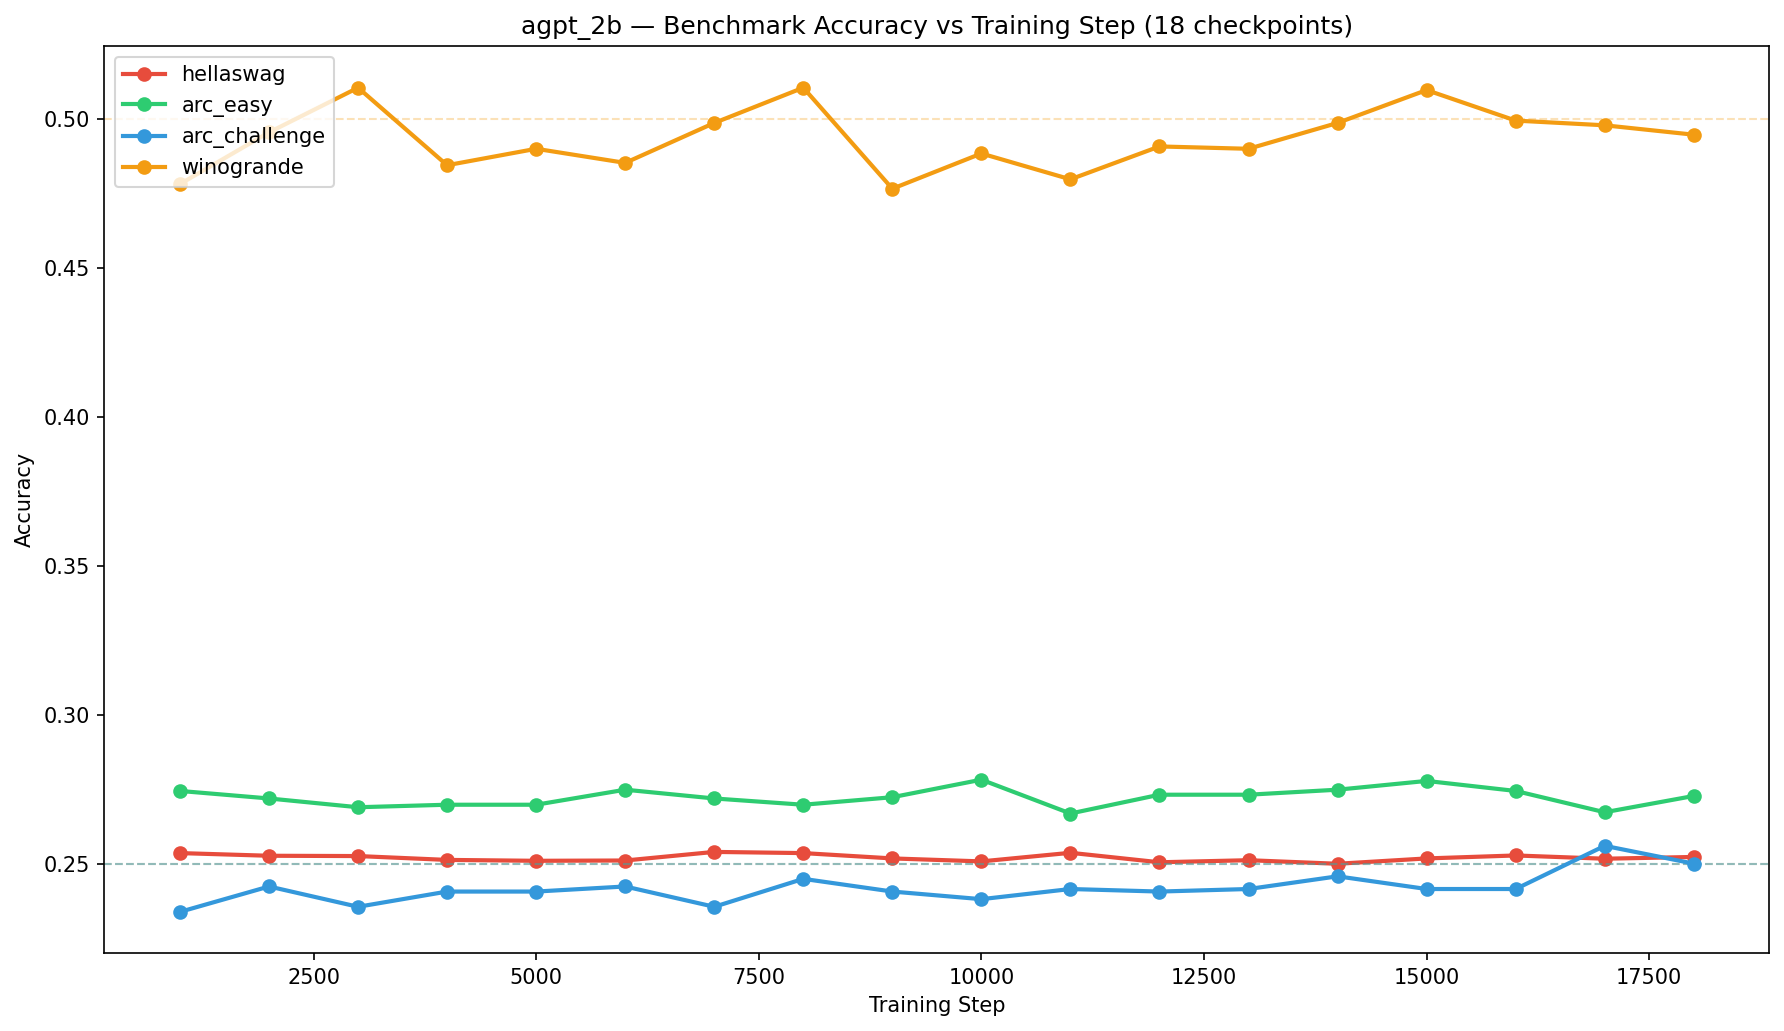
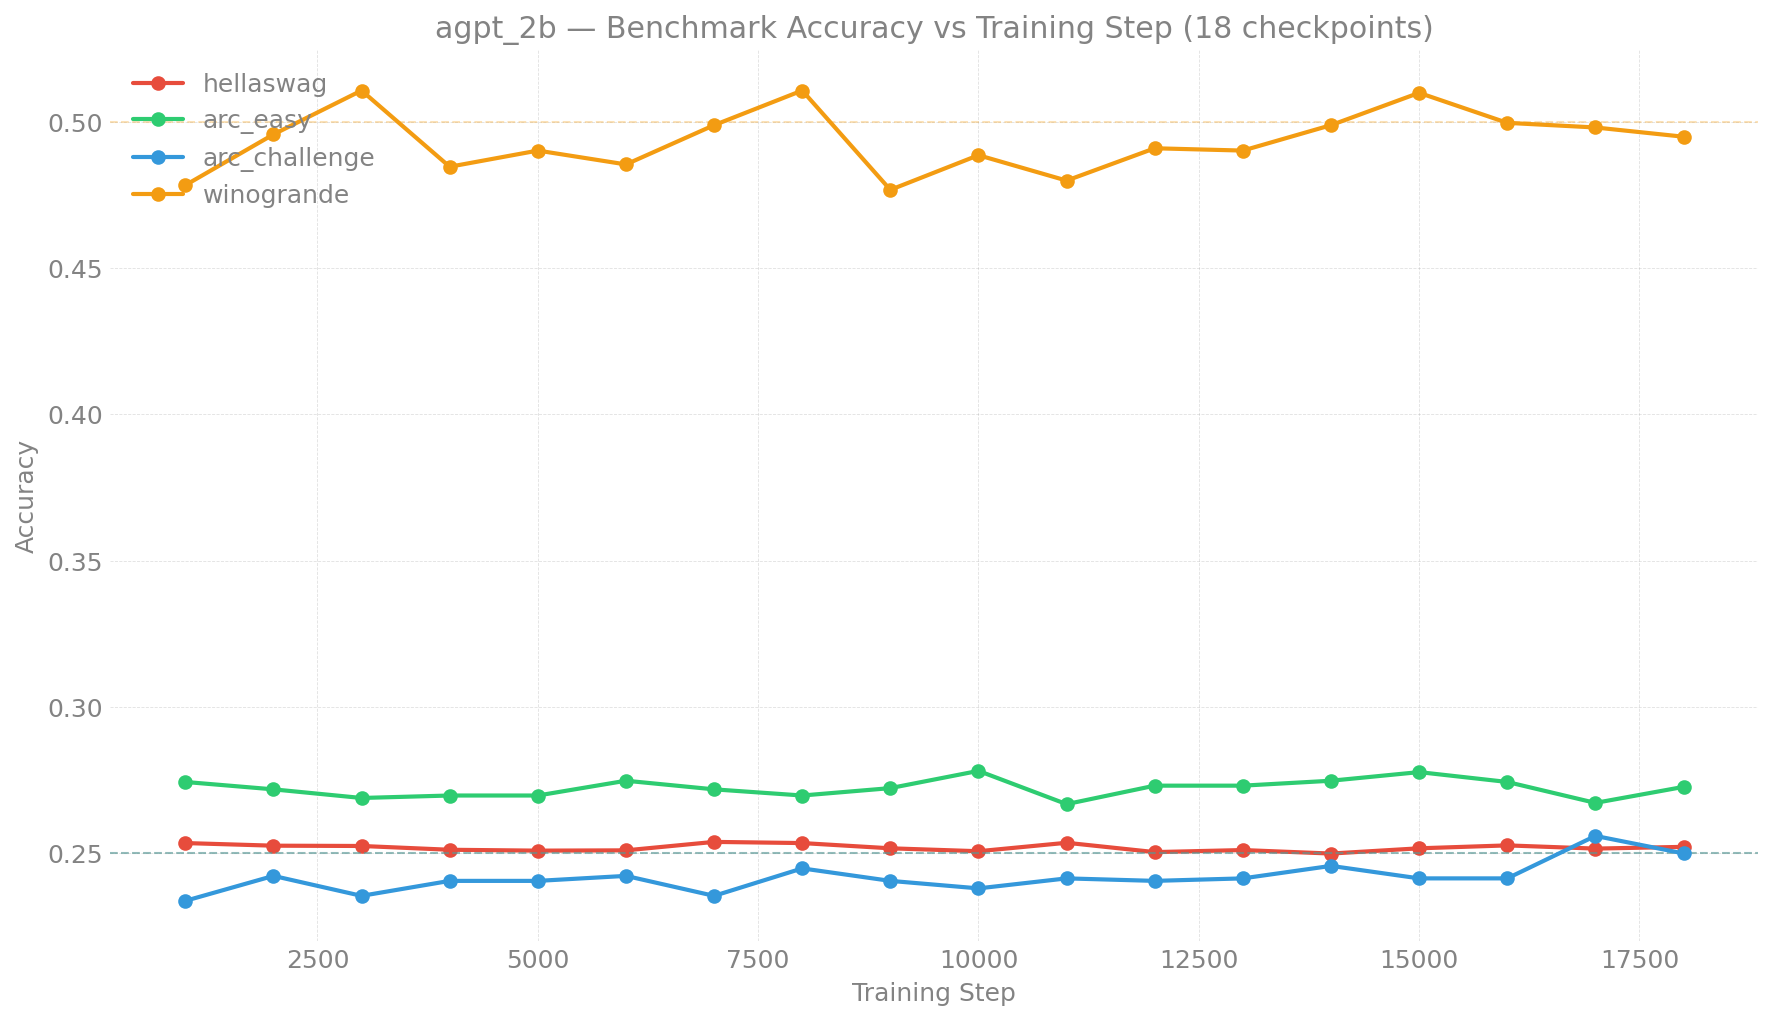
fix(ezpz): make ambivalent ImportError visible + actually apply style
Previously the try/except was swallowing all ImportErrors silently,
which masked the fact that ambivalent's import was crashing on a
missing IPython dependency. Plots looked unstyled and we had no idea.

Now:
- import matplotlib.pyplot first (so it always exists)
- try ambivalent and use its style
- on ImportError, emit a warning so the fallback is loud

Also regenerate eval and production figures with ambivalent actually
applied. Affected scripts: eval/aggregate_evals.py, eval/plot_training.py,
utils/plot_production.py, lr_finder.py.

Note: ambivalent depends on IPython (and traitlets etc). If the venv
doesn't have them, run: uv pip install ipython

diff --git a/torchtitan/experiments/ezpz/lr_finder.py b/torchtitan/experiments/ezpz/lr_finder.py
@@ -311,14 +311,19 @@ def run_lr_finder(trainer: FaultTolerantTrainer) -> None:
             import matplotlib
 
             matplotlib.use("Agg")
+            import matplotlib.pyplot as plt
 
             try:
                 import ambivalent
-                import matplotlib.pyplot as plt
 
                 plt.style.use(ambivalent.STYLES["ambivalent"])
-            except ImportError:
-                import matplotlib.pyplot as plt
+            except ImportError as e:
+                import warnings
+
+                warnings.warn(
+                    f"ambivalent style unavailable, using matplotlib defaults: {e}",
+                    stacklevel=2,
+                )
 
             fig, ax = plt.subplots(figsize=(10, 6))
             ax.plot(lrs, losses, linewidth=1.5)

diff --git a/torchtitan/experiments/ezpz/utils/plot_production.py b/torchtitan/experiments/ezpz/utils/plot_production.py
@@ -29,15 +29,20 @@ import matplotlib
 
 matplotlib.use("Agg")
 
+import matplotlib.pyplot as plt  # noqa: E402
+import numpy as np  # noqa: E402
+
 try:
     import ambivalent
-    import matplotlib.pyplot as plt  # noqa: E402
 
     plt.style.use(ambivalent.STYLES["ambivalent"])
-except ImportError:
-    import matplotlib.pyplot as plt  # noqa: E402
+except ImportError as e:
+    import warnings
 
-import numpy as np  # noqa: E402
+    warnings.warn(
+        f"ambivalent style unavailable, using matplotlib defaults: {e}",
+        stacklevel=2,
+    )
 
 # Regex to strip ANSI escape sequences
 ANSI_RE = re.compile(r"\x1b\[[0-9;]*m")

diff --git a/torchtitan/experiments/ezpz/eval/plot_training.py b/torchtitan/experiments/ezpz/eval/plot_training.py
@@ -28,12 +28,19 @@ from dataclasses import dataclass, field
 import matplotlib
 matplotlib.use("Agg")
 
+import matplotlib.pyplot as plt
+
 try:
     import ambivalent
-    import matplotlib.pyplot as plt
+
     plt.style.use(ambivalent.STYLES["ambivalent"])
-except ImportError:
-    import matplotlib.pyplot as plt
+except ImportError as e:
+    import warnings
+
+    warnings.warn(
+        f"ambivalent style unavailable, using matplotlib defaults: {e}",
+        stacklevel=2,
+    )
 
 
 def compute_wsd_lr_schedule(

diff --git a/torchtitan/experiments/ezpz/eval/aggregate_evals.py b/torchtitan/experiments/ezpz/eval/aggregate_evals.py
@@ -21,13 +21,19 @@ import matplotlib
 
 matplotlib.use("Agg")
 
+import matplotlib.pyplot as plt
+
 try:
     import ambivalent
-    import matplotlib.pyplot as plt
 
     plt.style.use(ambivalent.STYLES["ambivalent"])
-except ImportError:
-    import matplotlib.pyplot as plt
+except ImportError as e:
+    import warnings
+
+    warnings.warn(
+        f"ambivalent style unavailable, using matplotlib defaults: {e}",
+        stacklevel=2,
+    )
 
 
 TASK_COLORS = {
